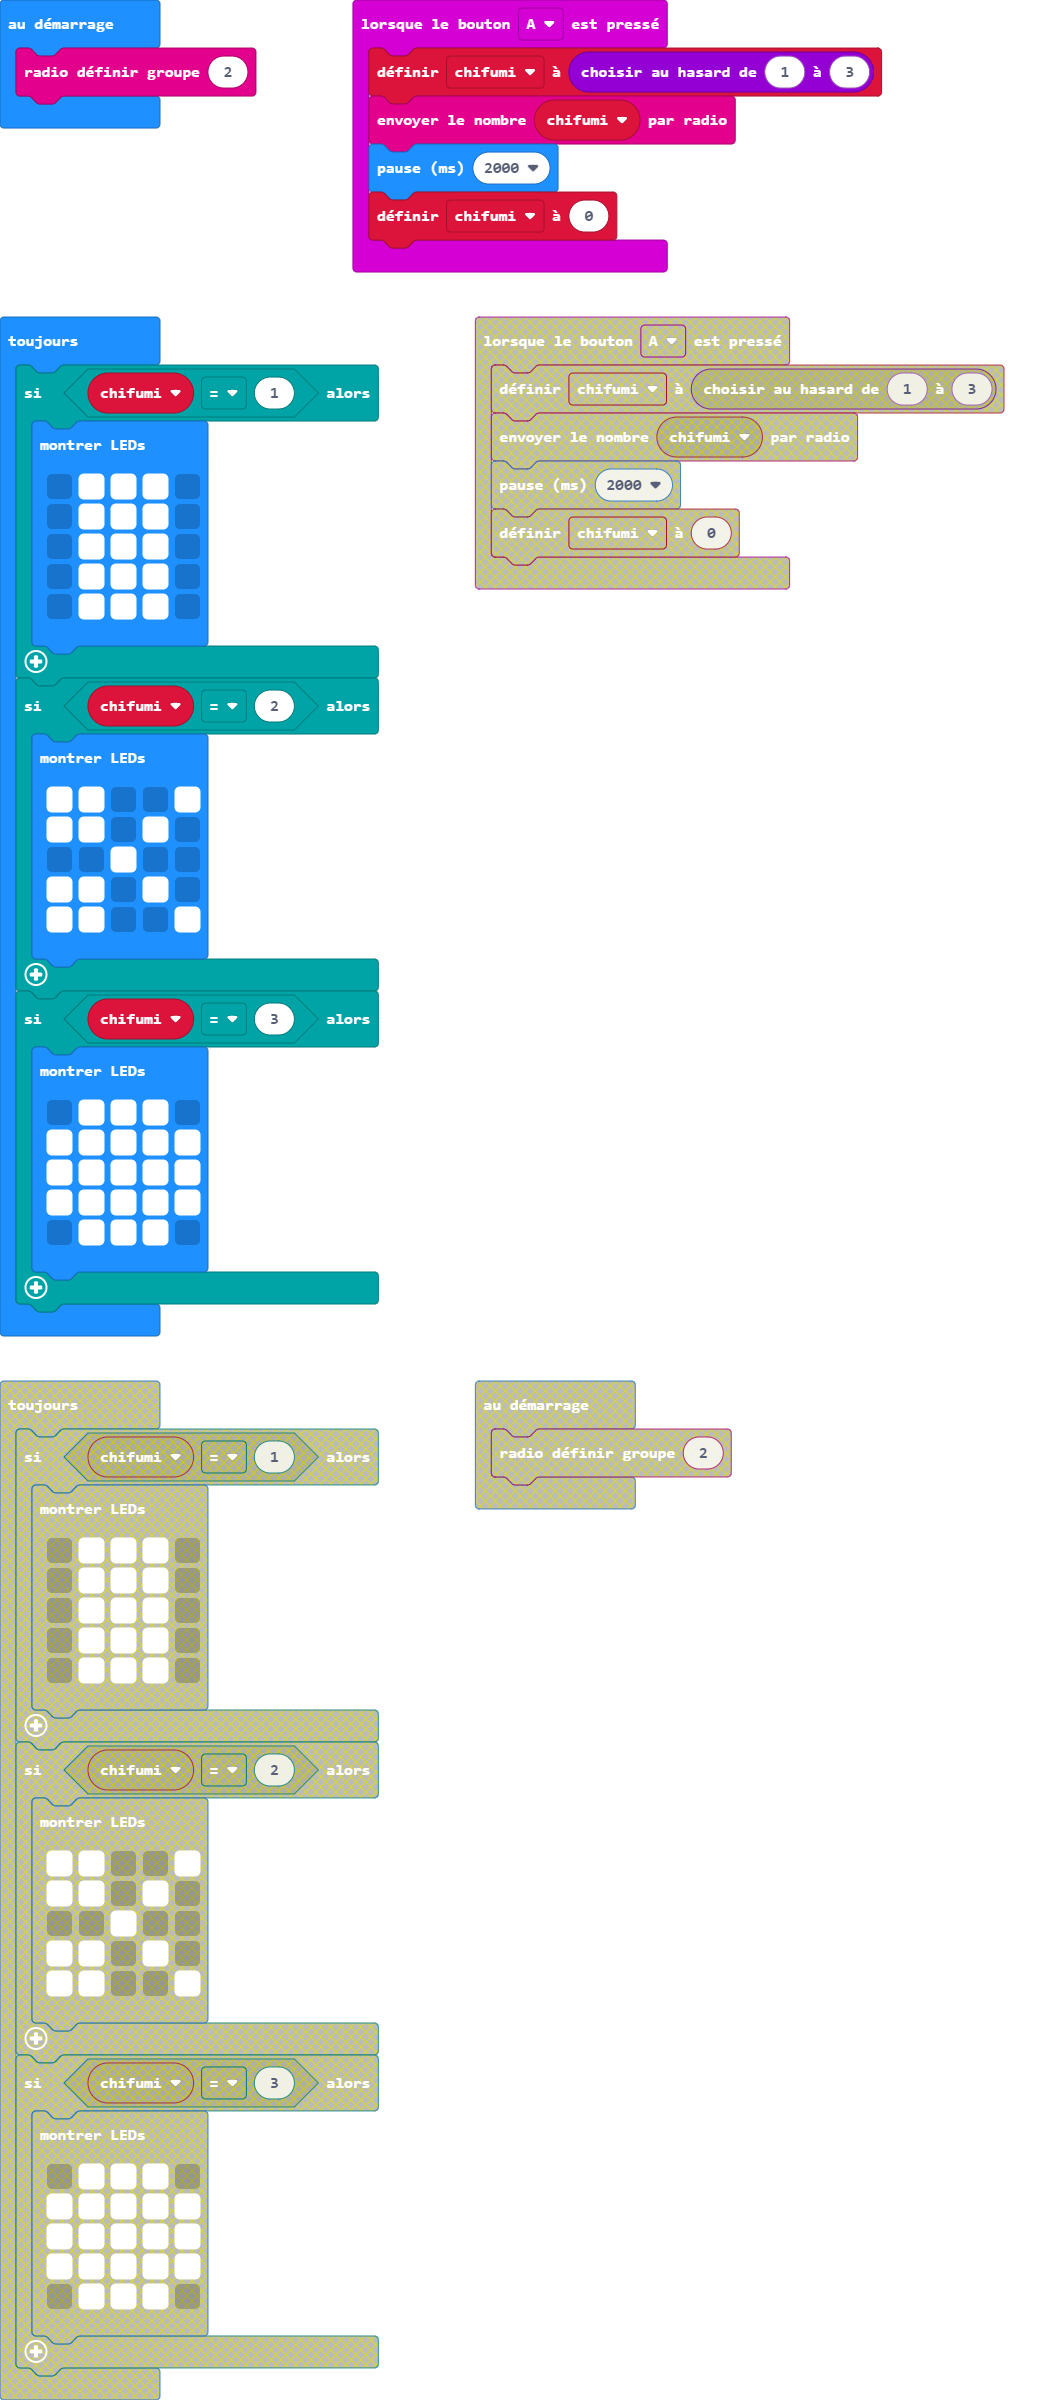
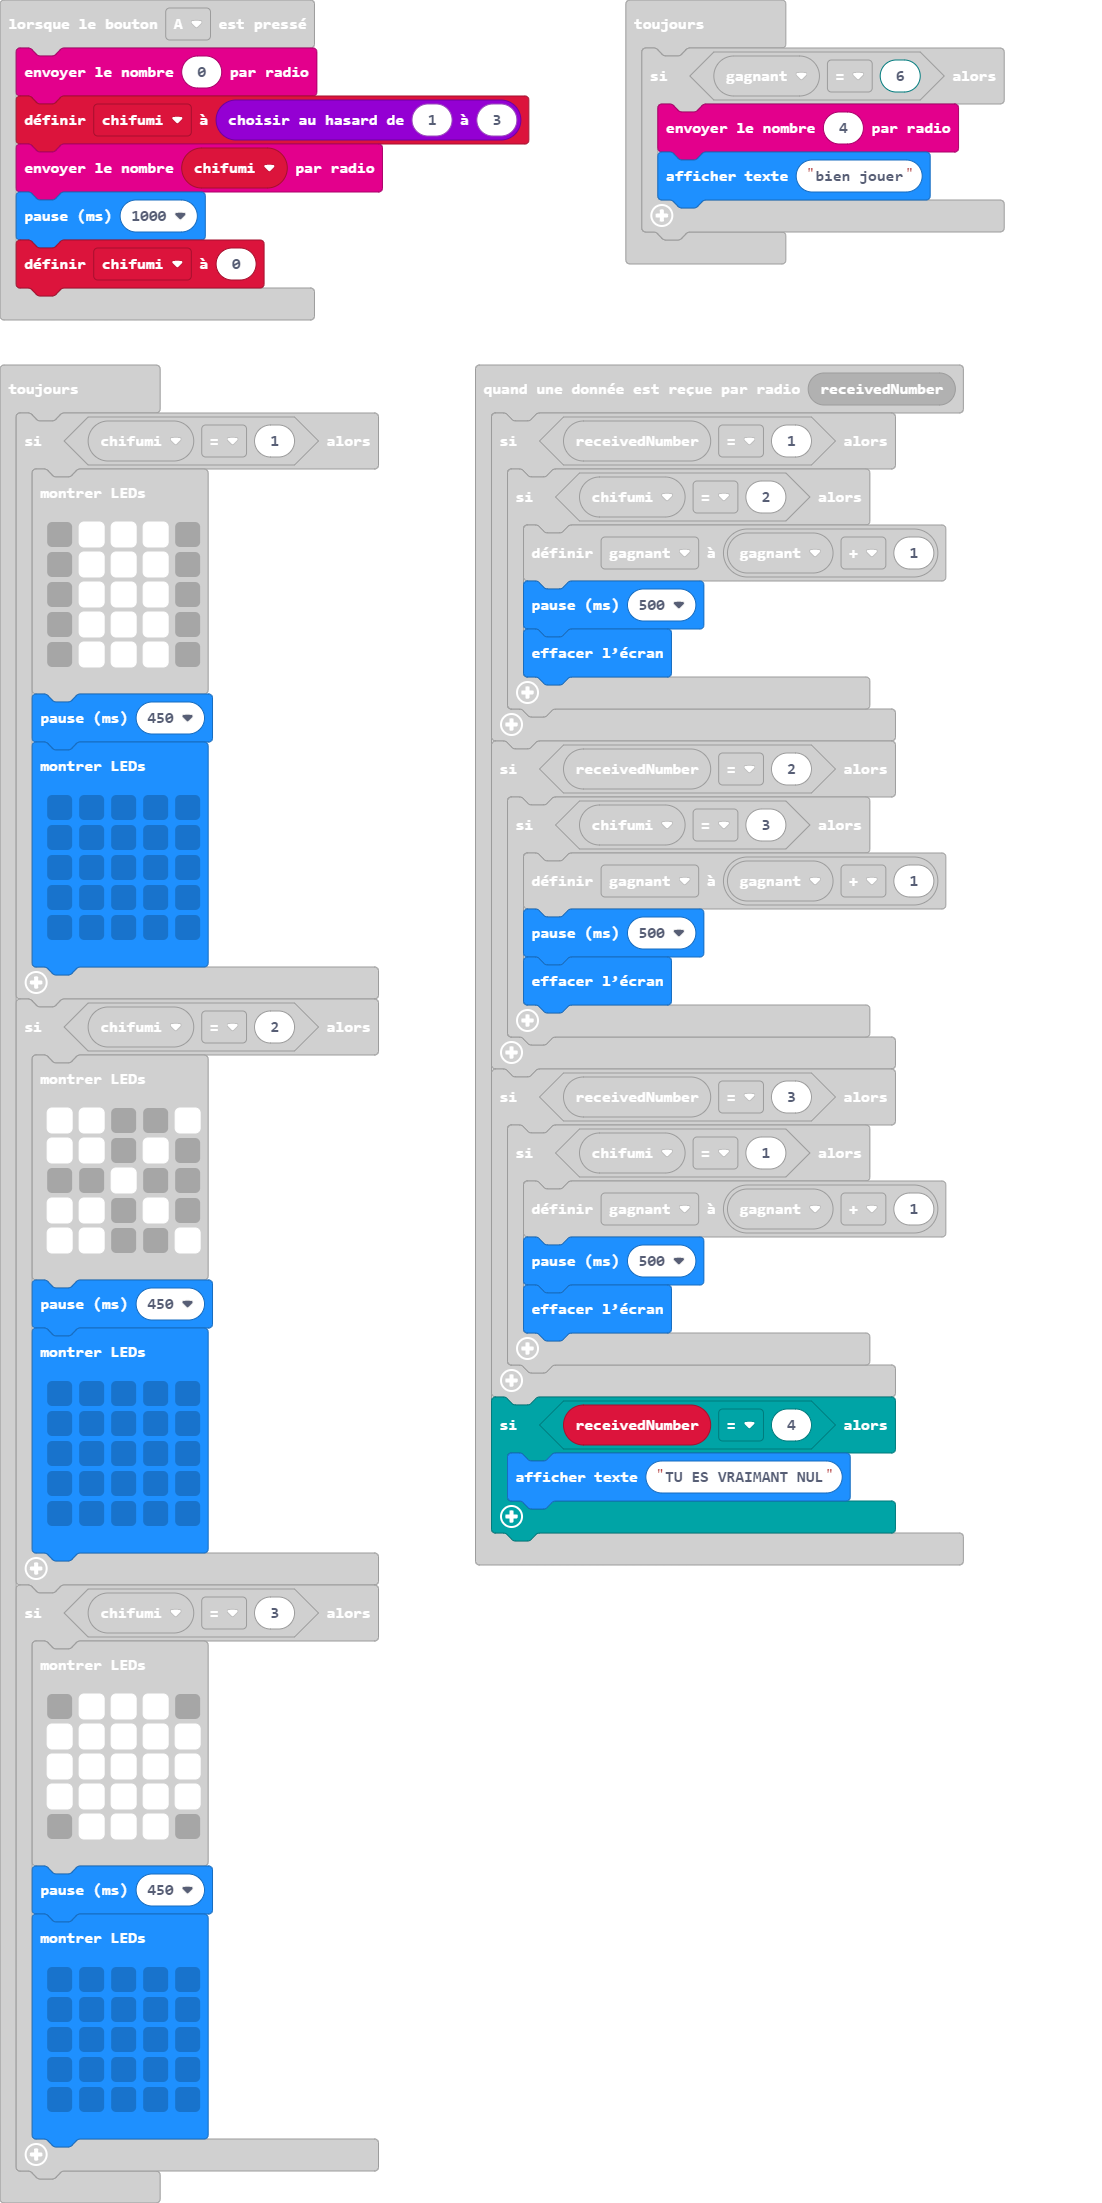
Mise à jour main.blocks, main.ts, main.py

diff --git a/main.ts b/main.ts
@@ -2,30 +2,41 @@ radio.onReceivedNumber(function (receivedNumber) {
     if (receivedNumber == 1) {
         if (chifumi == 2) {
             gagnant = gagnant + 1
+            basic.pause(500)
+            basic.clearScreen()
         }
     }
     if (receivedNumber == 2) {
         if (chifumi == 3) {
             gagnant = gagnant + 1
+            basic.pause(500)
+            basic.clearScreen()
         }
     }
     if (receivedNumber == 3) {
         if (chifumi == 1) {
             gagnant = gagnant + 1
+            basic.pause(500)
+            basic.clearScreen()
         }
+    }
+    if (receivedNumber == 4) {
+        basic.showString("TU ES VRAIMANT NUL")
     }
 })
 input.onButtonPressed(Button.A, function () {
+    radio.sendNumber(0)
     chifumi = randint(1, 3)
     radio.sendNumber(chifumi)
-    basic.pause(2000)
+    basic.pause(1000)
     chifumi = 0
 })
 let gagnant = 0
 let chifumi = 0
 radio.setGroup(2)
 basic.forever(function () {
-    if (gagnant == 10) {
+    if (gagnant == 6) {
+        radio.sendNumber(4)
         basic.showString("bien jouer")
     }
 })
@@ -38,6 +49,14 @@ basic.forever(function () {
             . # # # .
             . # # # .
             `)
+        basic.pause(450)
+        basic.showLeds(`
+            . . . . .
+            . . . . .
+            . . . . .
+            . . . . .
+            . . . . .
+            `)
     }
     if (chifumi == 2) {
         basic.showLeds(`
@@ -47,6 +66,14 @@ basic.forever(function () {
             # # . # .
             # # . . #
             `)
+        basic.pause(450)
+        basic.showLeds(`
+            . . . . .
+            . . . . .
+            . . . . .
+            . . . . .
+            . . . . .
+            `)
     }
     if (chifumi == 3) {
         basic.showLeds(`
@@ -55,6 +82,14 @@ basic.forever(function () {
             # # # # #
             # # # # #
             . # # # .
+            `)
+        basic.pause(450)
+        basic.showLeds(`
+            . . . . .
+            . . . . .
+            . . . . .
+            . . . . .
+            . . . . .
             `)
     }
 })

diff --git a/main.py b/main.py
@@ -3,19 +3,28 @@ def on_received_number(receivedNumber):
     if receivedNumber == 1:
         if chifumi == 2:
             gagnant = gagnant + 1
+            basic.pause(500)
+            basic.clear_screen()
     if receivedNumber == 2:
         if chifumi == 3:
             gagnant = gagnant + 1
+            basic.pause(500)
+            basic.clear_screen()
     if receivedNumber == 3:
         if chifumi == 1:
             gagnant = gagnant + 1
+            basic.pause(500)
+            basic.clear_screen()
+    if receivedNumber == 4:
+        basic.show_string("TU ES VRAIMANT NUL")
 radio.on_received_number(on_received_number)
 
 def on_button_pressed_a():
     global chifumi
+    radio.send_number(0)
     chifumi = randint(1, 3)
     radio.send_number(chifumi)
-    basic.pause(2000)
+    basic.pause(1000)
     chifumi = 0
 input.on_button_pressed(Button.A, on_button_pressed_a)
 
@@ -24,7 +33,8 @@ chifumi = 0
 radio.set_group(2)
 
 def on_forever():
-    if gagnant == 10:
+    if gagnant == 6:
+        radio.send_number(4)
         basic.show_string("bien jouer")
 basic.forever(on_forever)
 
